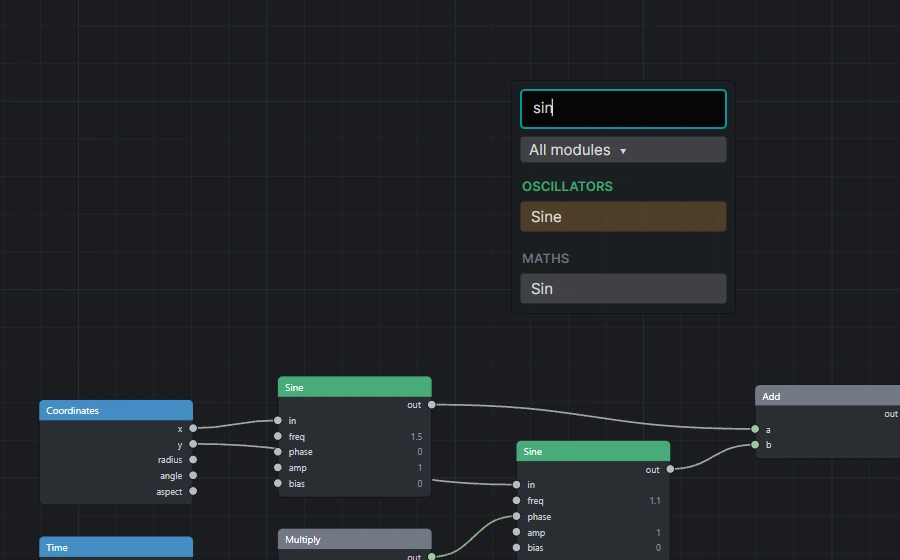
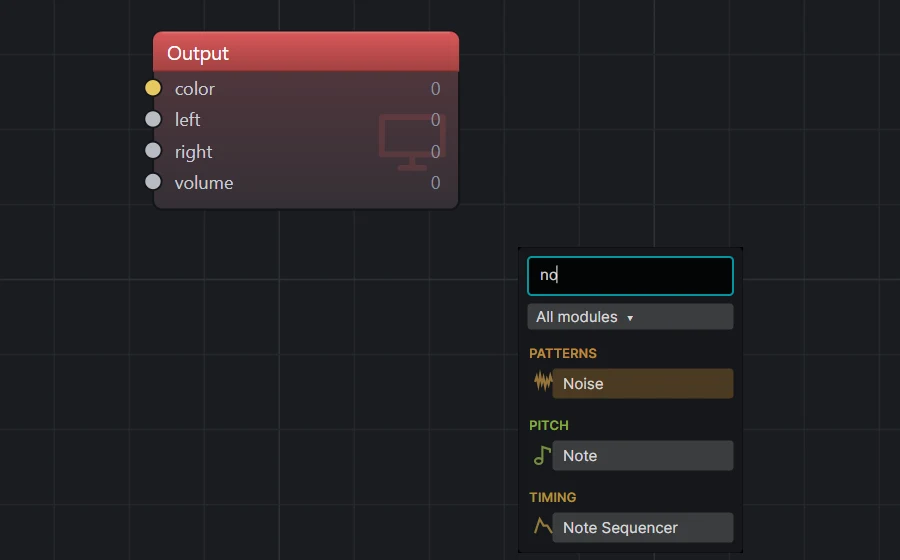
The tutorial's module list screenshot shows the marks
palette.webp showed a Sin module the catalogue no longer has and a list with
no marks. It is retaken from the real app with 'no' filtering across three
families, and the skill notes that the list opens under the real pointer.

diff --git a/site/tutorials.html b/site/tutorials.html
@@ -151,10 +151,10 @@
     <figure>
       <a class="zoom" href="assets/shots/palette.webp" target="_blank" rel="noopener">
         <img class="shot" loading="lazy" src="assets/shots/palette.webp" width="900" height="560"
-             alt="The module list open on the canvas with 'sin' typed into its filter. It shows Sine under Oscillators, highlighted, and Sin under Maths.">
+             alt="The module list open on the canvas beside the Output, with 'no' typed into its filter. It shows Noise under Patterns, highlighted, Note under Pitch and Note Sequencer under Timing, each with its mark.">
       </a>
-      <figcaption>The module list, filtered. The headings are the module families, in the same colors as the
-      module headers on the canvas.</figcaption>
+      <figcaption>The module list, filtered. The headings are the module families, and each module carries the
+      mark and color it has on the canvas.</figcaption>
     </figure>
 
     <figure class="patch-fig">

diff --git a/.claude/skills/site-screenshots/SKILL.md b/.claude/skills/site-screenshots/SKILL.md
@@ -38,6 +38,7 @@ A preset with sound plays through the user's speakers while it is captured, for 
 - Posted clicks are in **client** coordinates, physical pixels, and the client area starts under the native title bar: the toolbar's first button is about (35, 30), Rewind about (589, 30) and `{ }` about (398, 30). From a 1600-wide crop, client is about (x x 1.6, y x 1.6 - 29).
 - `WM_MOUSEWHEEL` takes screen coordinates, so turn a client point into one with `ClientToScreen` before posting it; a negative notch count zooms in.
 - A dropdown is a separate top-level popup window of the same process, so `PrintWindow` on the main handle misses it. `EnumWindows` for the process's other visible windows, `PrintWindow` each, and draw it onto the main capture at its screen offset (how presets-list.webp was made, list open over Kaleidoscope).
+- The module list opens under the real mouse pointer, not where a posted click lands, and a posted right-click often opens nothing. Send Space instead, and pan the canvas (posted middle-drag) to put the patch beside `GetCursorPos` just before it, in one script; the user's mouse moves between separate ones (how palette.webp was made).
 - A `.fbks` opens in the text view; the `{ }` toolbar button switches to the canvas, since a sent F2 did not.
 - A posted `WM_MOUSEWHEEL` does not scroll the inspector, so a row below the fold is checked with a headless `UiTest` instead (see `ExpressionInspectorTests`).
 - preview-*.webp stills (888x500) of chart presets can come from `flyback-cli render` to .avi plus an ffmpeg frame grab, since an export fills Scopes and Analyzers.

diff --git a/docs/adr/0116-a-module-is-drawn-as-its-category-and-a-standout-as-itself.md b/docs/adr/0116-a-module-is-drawn-as-its-category-and-a-standout-as-itself.md
@@ -97,7 +97,5 @@ module of its own —
 [0119](0119-the-website-shows-a-module-by-photographing-one.md) replaced the
 drawn node cards with photographs of the real canvas — so the wash and the
 mark reach the site the same way any other change to a module's appearance
-does, the next time its shots are retaken. Two were left: `settings.webp`,
-whose canvas is under a dialog's scrim, and `palette.webp`, which is about the
-module list's heading colors and whose canvas shows modules the catalogue no
-longer has.
+does, the next time its shots are retaken. One was left: `settings.webp`,
+whose canvas is under a dialog's scrim.
